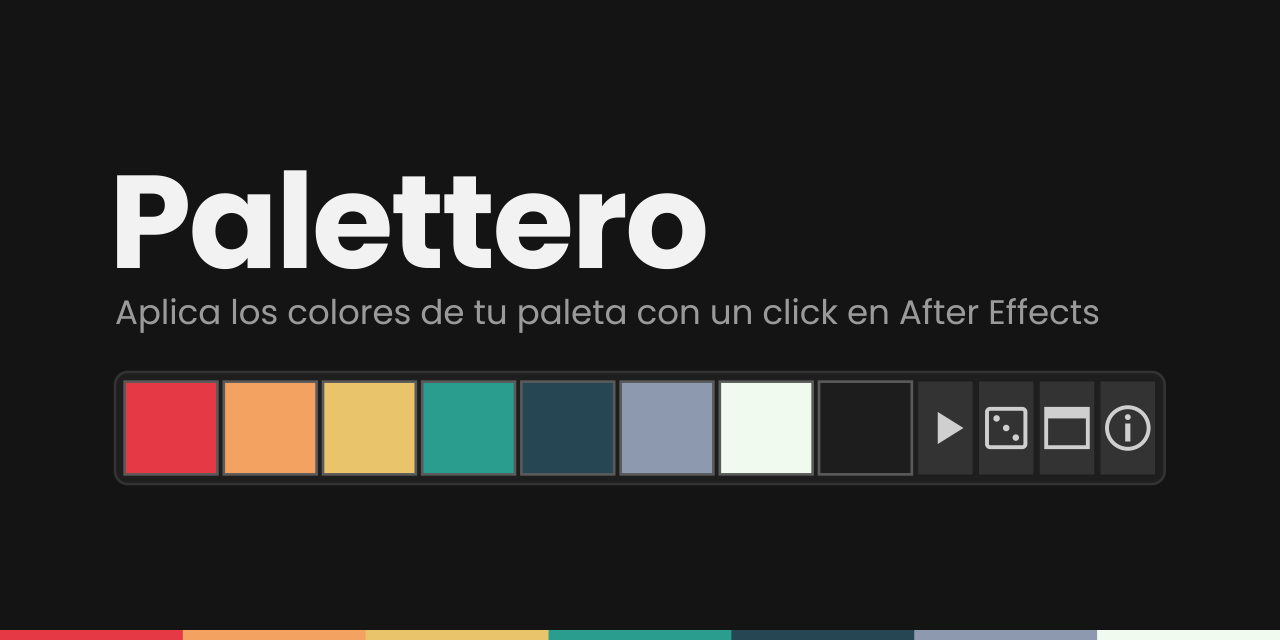
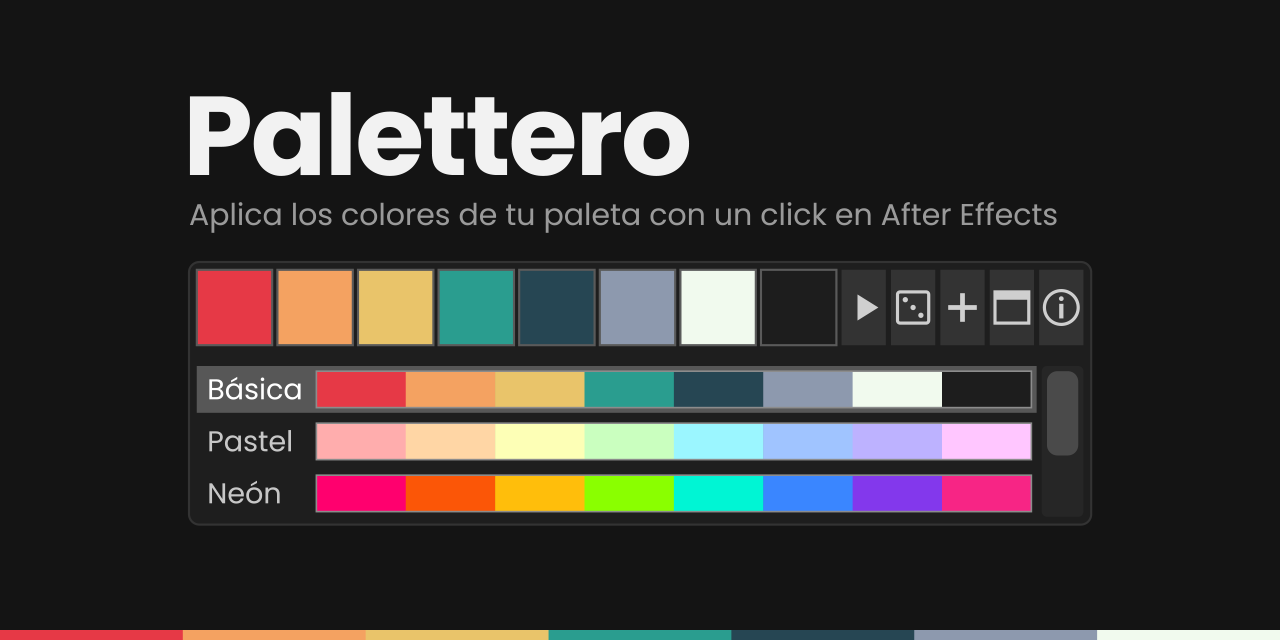
Show the palette gallery in the README cover

Changed region(s): [[0.0938, 0.125, 0.9062, 0.8125]]

diff --git a/README.md b/README.md
@@ -1,6 +1,6 @@
 # Palettero
 
-![Palettero: la franja de muestras del panel con la paleta Básica](assets/portada.png)
+![Palettero: el panel con la paleta Básica activa y la galería de paletas debajo](assets/portada.png)
 
 Panel para After Effects con una fila de cuadrados de color. Se puede dejar como una franja
 fina encima del visor y sigue siendo útil a ese tamaño: los cuadrados se encogen para caber
